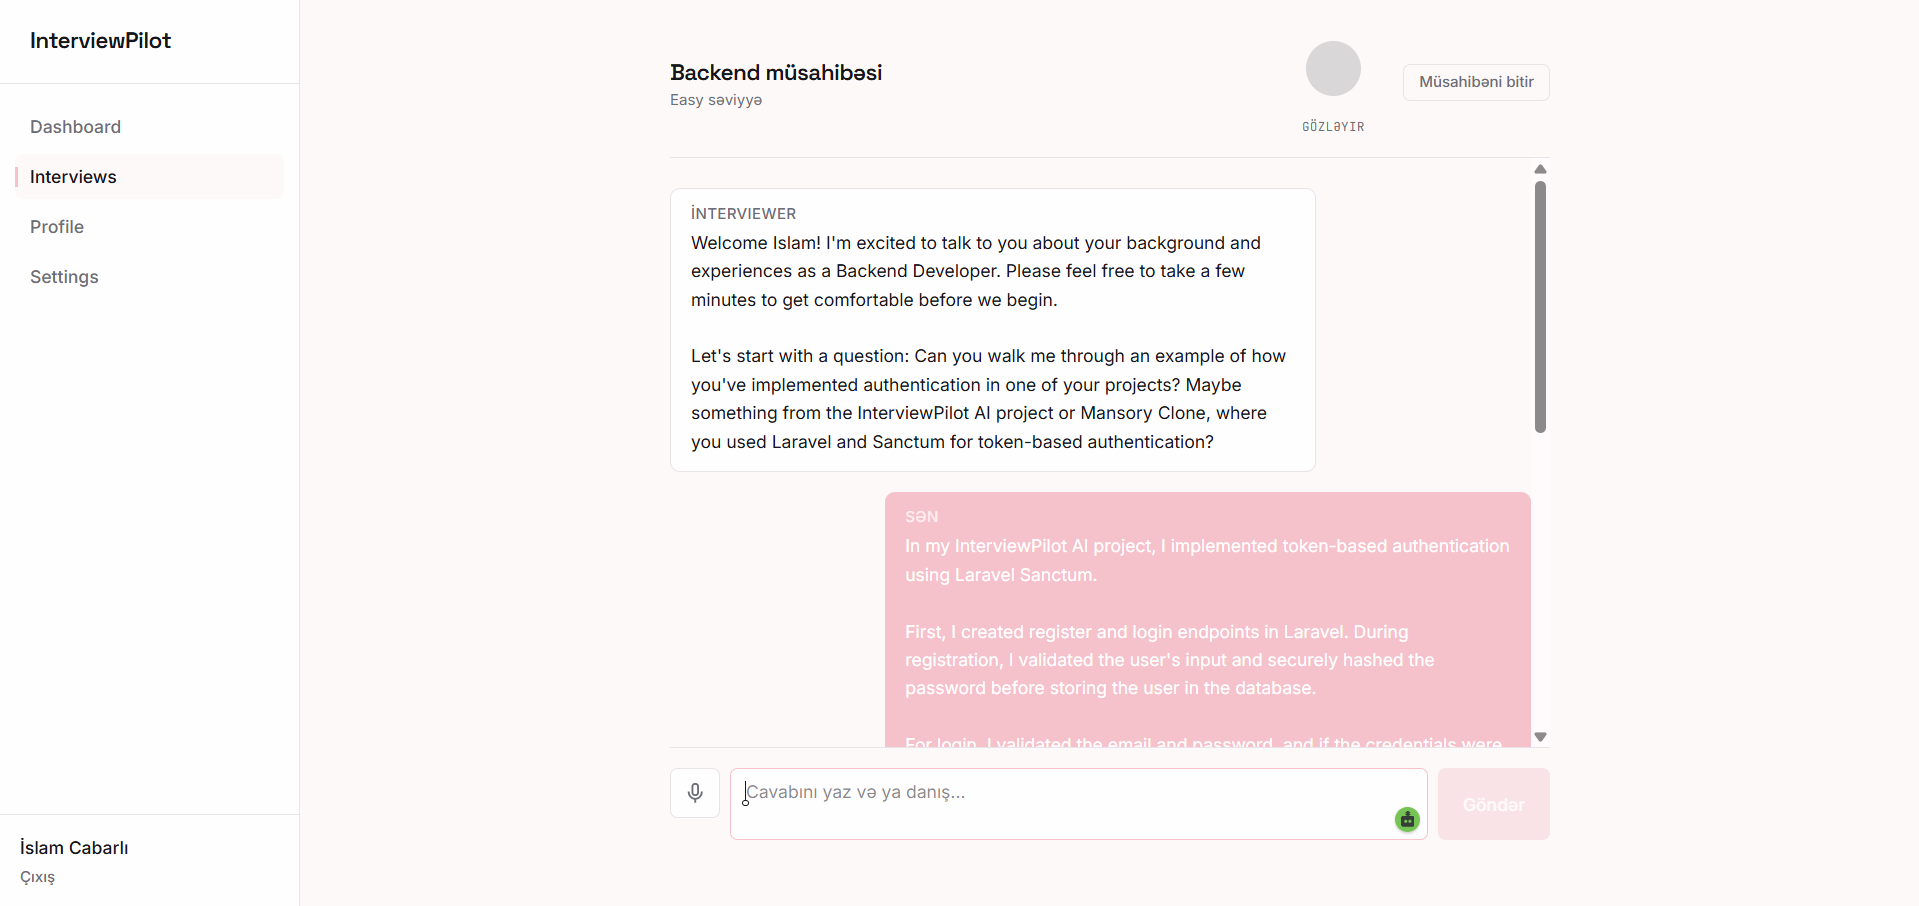
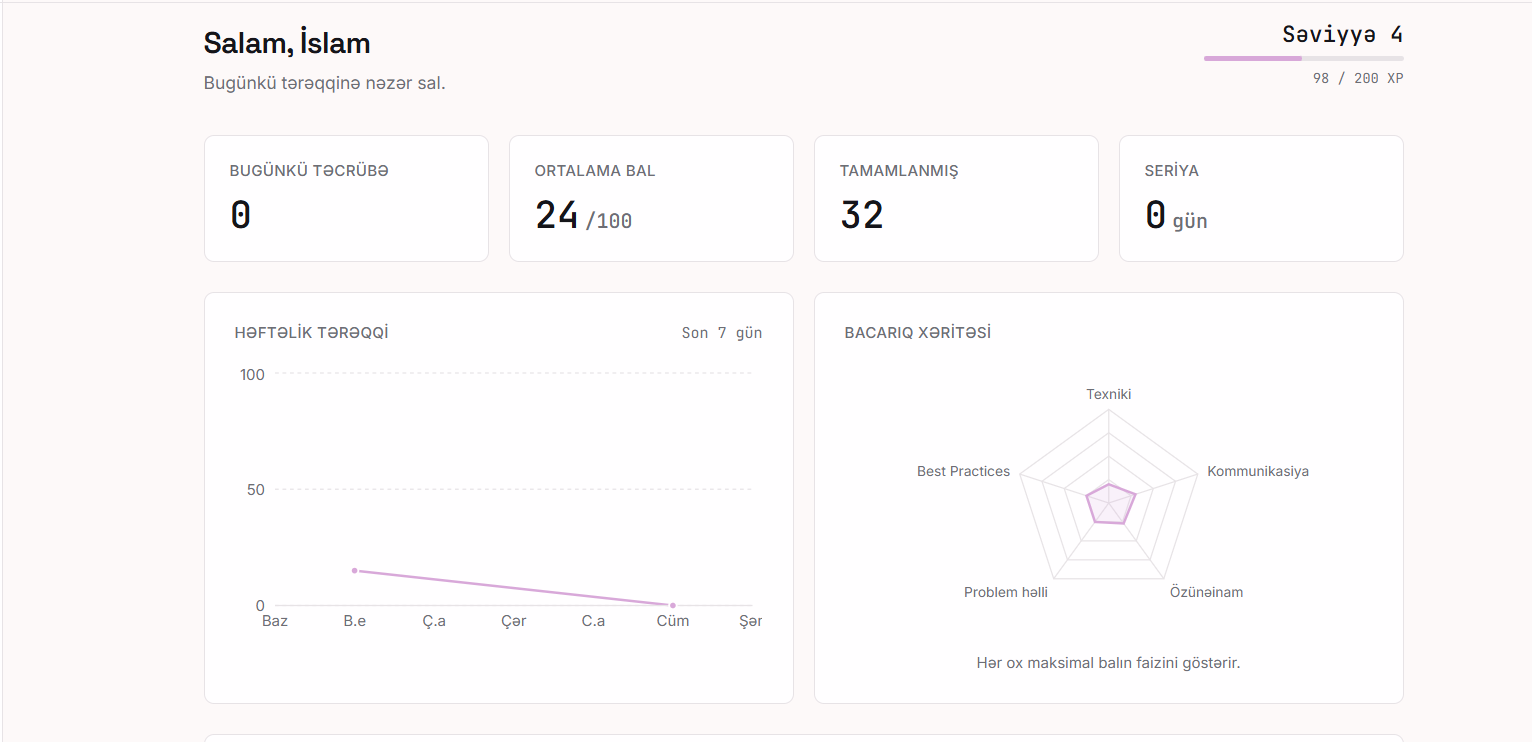
fix:improve readme details

diff --git a/README.md b/README.md
@@ -2,7 +2,6 @@
 
 > Practice real technical interviews with an AI interviewer. Open source, runs entirely on your machine.
 
-[![CI](https://github.com/IslamCabarli/InterviewPilot-AI/actions/workflows/ci.yml/badge.svg)](https://github.com/IslamCabarli/InterviewPilot-AI/actions/workflows/ci.yml)
 [![License: MIT](https://img.shields.io/badge/license-MIT-blue.svg)](LICENSE)
 
 InterviewPilot AI is a self-hosted mock interview platform. A local LLM (Ollama) plays the interviewer,
@@ -27,7 +26,7 @@ and your voice, CV and answers never leave your machine.
 
 | Dashboard | Dashboard (dark) |
 |---|---|
-| ![Dashboard](docs/screenshots/dashboard.png) | ![Dashboard dark](docs/screenshots/dashboard-dark.png) |
+| ![Dashboard](docs/screenshots/dashboard.png) | ![Dashboard dark](docs/screenshots/dashboard-dark.png![img.png](img.png)) |
 
 | Interview setup | Interview |
 |---|---|
@@ -35,7 +34,7 @@ and your voice, CV and answers never leave your machine.
 
 | Report | Mobile |
 |---|---|
-| ![Report](docs/screenshots/report.png) | ![Mobile dashboard](docs/screenshots/mobile-dashboard.png) ![Mobile interview](docs/screenshots/mobile-interview.png) |
+| ![Report](docs/screenshots/report.png) ![Report](docs/screenshots/report-percentage.png) | ![Mobile dashboard](docs/screenshots/mobile-dashboard.png) ![Mobile interview](docs/screenshots/mobile-interview.png) |
 
 ## Tech stack
 
